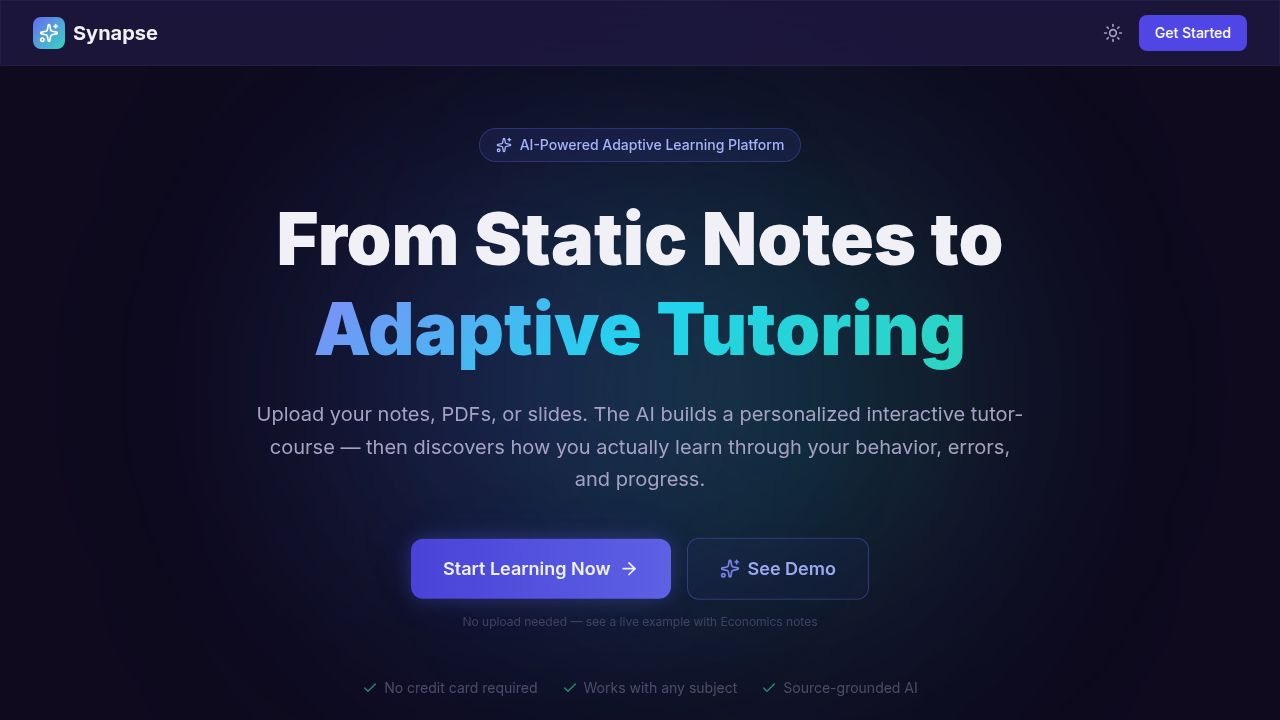
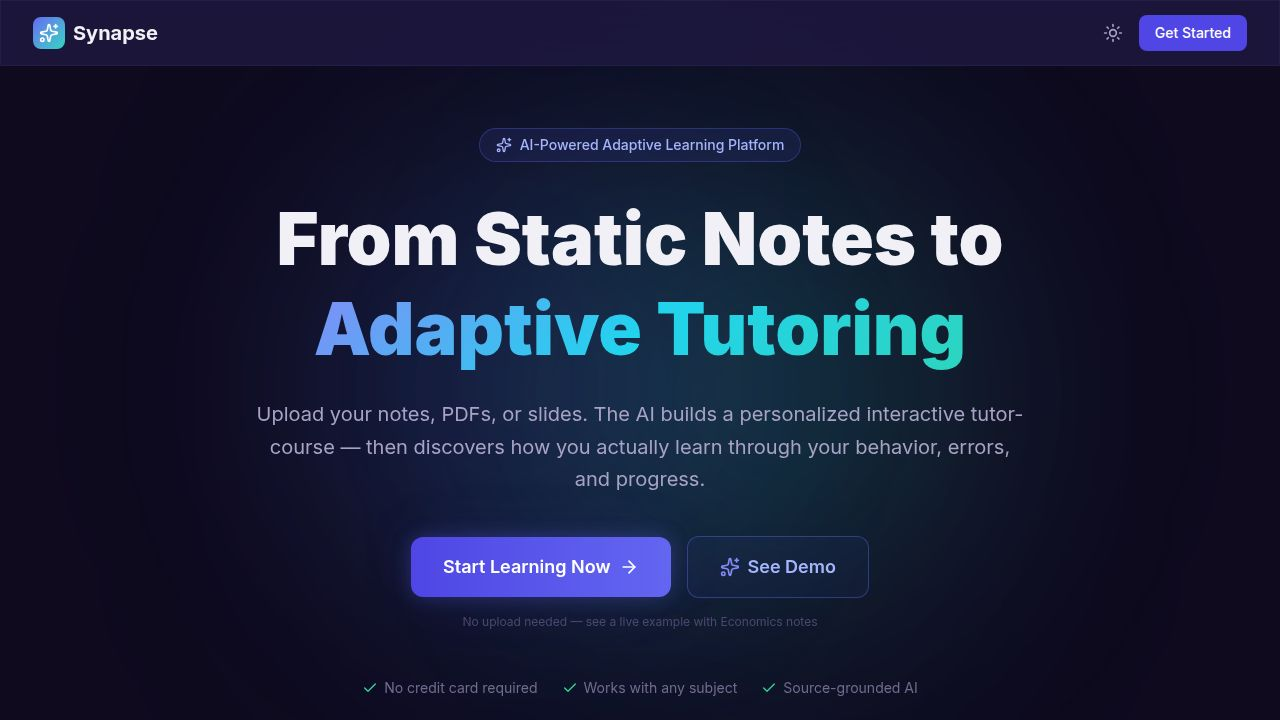
Update agent badges and settings component for improved clarity
Update the agent component to use a 'ws-caption' class for badge text and remove unused StatTile import from Settings.

Replit-Commit-Author: Agent
Replit-Commit-Session-Id: 6021a70f-e0a9-44a9-b422-56bc9b31e3b4
Replit-Commit-Checkpoint-Type: full_checkpoint
Replit-Commit-Event-Id: 9c072a55-1b29-456a-b172-bca828f888a7
Replit-Commit-Screenshot-Url: https://storage.googleapis.com/screenshot-production-us-central1/b1852f41-baf7-4306-a5af-a0abd6089397/6021a70f-e0a9-44a9-b422-56bc9b31e3b4/PuMAJN5
Replit-Helium-Checkpoint-Created: true

diff --git a/artifacts/synapse/src/components/Agent.tsx b/artifacts/synapse/src/components/Agent.tsx
@@ -587,13 +587,13 @@ function MessageBubble({
         {!isUser && message.metadata && (
           <div className="mt-2 pt-2 border-t border-border-subtle flex items-center gap-2 flex-wrap">
             {message.metadata.sourceGrounded && (
-              <span className="text-[9px] px-1.5 py-0.5 rounded bg-accent-emerald/10 text-accent-emerald font-medium">{ui.badgeSourceGrounded}</span>
+              <span className="ws-caption px-1.5 py-0.5 rounded bg-accent-emerald/10 text-accent-emerald font-medium">{ui.badgeSourceGrounded}</span>
             )}
             {message.metadata.inferenceUsed && (
-              <span className="text-[9px] px-1.5 py-0.5 rounded bg-brand-500/10 text-brand-300 font-medium">{ui.badgeAiInference}</span>
+              <span className="ws-caption px-1.5 py-0.5 rounded bg-brand-500/10 text-brand-300 font-medium">{ui.badgeAiInference}</span>
             )}
             {message.metadata.enrichmentUsed && (
-              <span className="text-[9px] px-1.5 py-0.5 rounded bg-accent-amber/10 text-accent-amber font-medium">{ui.badgeEnrichment}</span>
+              <span className="ws-caption px-1.5 py-0.5 rounded bg-accent-amber/10 text-accent-amber font-medium">{ui.badgeEnrichment}</span>
             )}
           </div>
         )}

diff --git a/artifacts/synapse/src/components/Settings.tsx b/artifacts/synapse/src/components/Settings.tsx
@@ -7,7 +7,7 @@ import {
 import type { LucideIcon } from 'lucide-react';
 import type { UserSettings } from '../types';
 import { cn } from '../utils/cn';
-import { Page, PageHeader, Card, SectionHeading, CardLink, StatTile } from './ui/primitives';
+import { Page, PageHeader, Card, SectionHeading } from './ui/primitives';
 import { clearAllSessionData, downloadBackup, importSessionData } from '../lib/sessionBackup';
 import { authLogin, authRegister, pushRemoteLibrary, createCheckoutSession, type AuthSession } from '../lib/authClient';
 import { loadLibrarySync } from '../lib/libraryStorage';